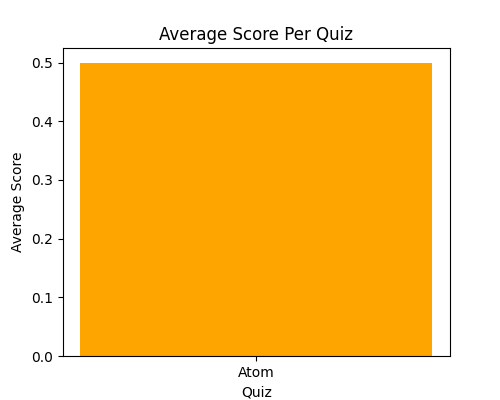
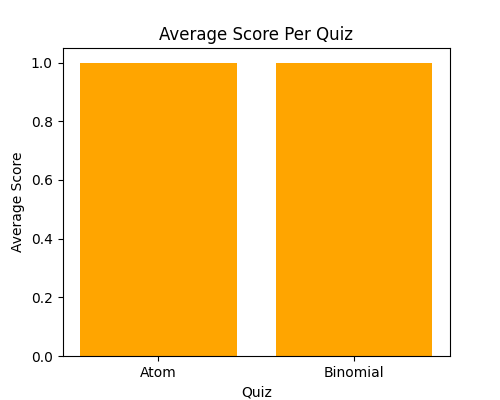
made a correction in summary pages

diff --git a/templates/1_admin_home.html b/templates/1_admin_home.html
@@ -49,7 +49,7 @@
                             {% endfor %}
                             {% else %}
                             <tr>
-                                <td colspan="3" >No chapters found</td>
+                                <td colspan="3" >No Chapter found</td>
                             </tr>
                             {% endif %}
                         </table>
@@ -58,7 +58,7 @@
                     </div> 
                 {% endfor %}
             {% else %}
-                <h2>No subjects found</h2>
+                <h2>No Item found</h2>
             {% endif %}
         </div>
     </div>

diff --git a/templates/1_user_summary.html b/templates/1_user_summary.html
@@ -28,10 +28,10 @@
         <p>Average Score: {{ avg_score }}</p>
     
         <h2>Performance Over Time</h2>
-        <img src="/static/images/user_line_chart.png" alt="Performance Over Time">
+        <img src="/static/images/user_line_chart{{user_id}}.png" alt="No graphs to show , Attempt atleast one quiz">
 
         <h2>Correct vs Incorrect Answers</h2>
-        <img src="/static/images/user_pie_chart.png" alt="Correct vs Incorrect Answers">
+        <img src="/static/images/user_pie_chart{{user_id}}.png" alt="No Pie chart to show, Attempt atleast one quiz">
 
               
     </div>

diff --git a/backend/controllers.py b/backend/controllers.py
@@ -445,40 +445,55 @@ def search_quiz():
             return render_template("2_admin_quiz.html",  quizes=quiz,chapters=Chapters.query.all(), admin=Admin_User_Details.query.filter_by(role=0).first().Full_name)
     return render_template("2_admin_quiz.html",  quizes=Quiz.query.all(),chapters=Chapters.query.all(), admin=Admin_User_Details.query.filter_by(role=0).first().Full_name)
 
+
+
+
 @app.route("/user_summary/<int:user_id>")
 def user_summary(user_id):
-    # Calculate user summary
-    # user = Admin_User_Details.query.get(session[user_id])
-    user=Admin_User_Details.query.filter_by(id=user_id).first()
-    user_name=Admin_User_Details.query.filter_by(id=user_id).first().Full_name
-    scores = Scores.query.filter_by(user_id=user.id).all()
+    user = Admin_User_Details.query.filter_by(id=user_id).first()
+    user_name = user.Full_name if user else "Unknown User"
+    scores = Scores.query.filter_by(user_id=user.id).all() if user else []
+    
     total_quizzes = len(scores)
+    total_questions = sum(score.no_of_questions for score in scores) if scores else 0
+    total_correct = sum(score.score for score in scores) if scores else 0
+    total_incorrect = total_questions - total_correct if total_questions else 0
     avg_score = sum(score.score for score in scores) / total_quizzes if total_quizzes > 0 else 0
+
+    # Avoid plotting if no data
+    if scores:
+        dates = [score.date for score in scores]
+        scores_list = [score.score for score in scores]
+        plt.figure(figsize=(7, 4))
+        plt.plot(dates, scores_list, marker='o', linestyle='-', color='b')
+        plt.xlabel('Date')
+        plt.ylabel('Score')
+        plt.title('Performance Over Time')
+        String_user_id=str(user_id)
+        user_line_chart = "static/images/user_line_chart"+(String_user_id)+".png"
+        plt.savefig(user_line_chart)
+        plt.close()
+    else:
+        user_line_chart = None  # No chart if no scores
     
-    # Score trend over time (Line Chart)
-    dates = [score.date for score in scores]
-    scores_list = [score.score for score in scores]
-    plt.figure(figsize=(7, 4))
-    plt.plot(dates, scores_list, marker='o', linestyle='-', color='b')
-    plt.xlabel('Date')
-    plt.ylabel('Score')
-    plt.title('Performance Over Time')
-    user_line_chart = "static/images/user_line_chart.png"
-    plt.savefig(user_line_chart)
-    plt.close()
+    # Avoid pie chart error (Matplotlib can't plot empty pie)
+    if total_questions > 0:
+        plt.figure(figsize=(7, 4))
+        plt.pie(
+            [total_correct, total_incorrect], 
+            labels=['Correct', 'Incorrect'], 
+            autopct='%1.1f%%', 
+            colors=['green', 'red']
+        )
+        plt.title('Correct vs Incorrect Answers')
+        str_user_id=str(user_id)
+        user_pie_chart = "static/images/user_pie_chart"+(str_user_id)+".png"
+        plt.savefig(user_pie_chart)
+        plt.close()
+    else:
+        user_pie_chart = None  # No pie chart if no questions
     
-    # Correct vs Incorrect Answers (Pie Chart)
-    total_questions = sum(score.no_of_questions for score in scores)
-    total_correct = sum(score.score for score in scores)
-    total_incorrect = total_questions - total_correct
-    plt.figure(figsize=(7, 4))
-    plt.pie([total_correct, total_incorrect], labels=['Correct', 'Incorrect'], autopct='%1.1f%%', colors=['green', 'red'])
-    plt.title('Correct vs Incorrect Answers')
-    user_pie_chart = "static/images/user_pie_chart.png"
-    plt.savefig(user_pie_chart)
-    plt.close()
-    
-    return render_template("1_user_summary.html",user=user_name,user_id=user_id, total_quizzes=total_quizzes, avg_score=avg_score, user_line_chart=user_line_chart, user_pie_chart=user_pie_chart)
+    return render_template("1_user_summary.html",user=user_name,user_id=user_id,total_quizzes=total_quizzes,avg_score=avg_score,user_line_chart=user_line_chart,user_pie_chart=user_pie_chart)
 
 @app.route("/admin_summary")
 def admin_summary():
